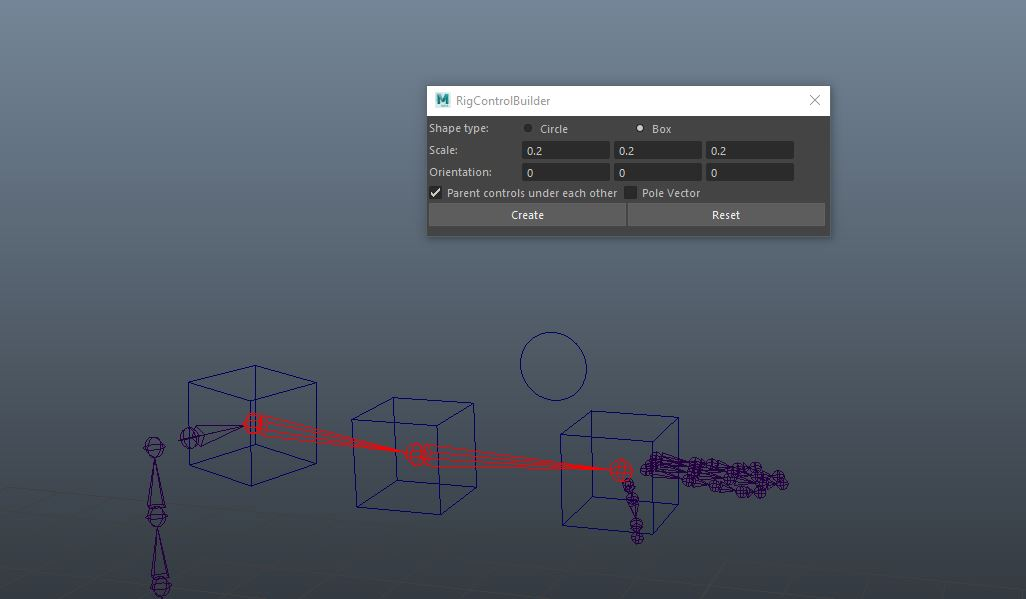
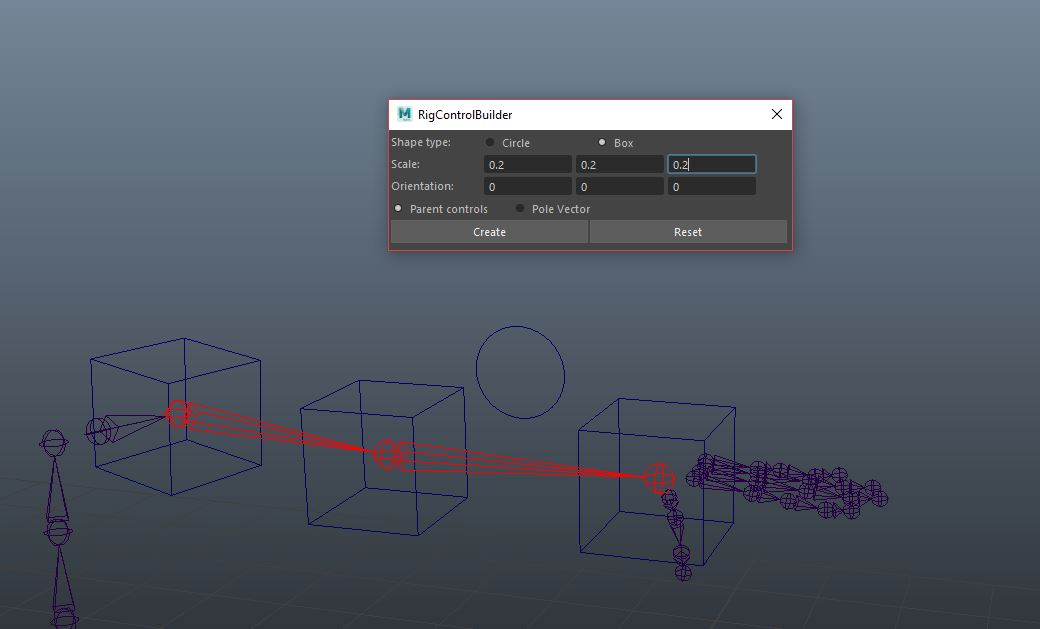
Changed checkboxes to radiobuttonGrp

diff --git a/rigControlBuilder/rigControlBuilder.py b/rigControlBuilder/rigControlBuilder.py
@@ -61,6 +61,10 @@ class controlBuilder(object):
         cmds.textField("yOrient", edit=True, text=0)
         cmds.textField("zOrient", edit=True, text=0)
 
+        cmds.textField("xScale", edit=True, text=1)
+        cmds.textField("yScale", edit=True, text=1)
+        cmds.textField("zScale", edit=True, text=1)
+
     # Close the window.
     def close(self, *args):
         cmds.deleteUI(self.windowName)
@@ -102,11 +106,18 @@ class controlBuilder(object):
         cmds.setParent('..')
 
         # Select whether you want to parent the chain of controls and their groups.
-        cmds.rowLayout(numberOfColumns=3)
-        cmds.checkBox('parentControls_checkBox', label="Parent controls under each other")
+        # cmds.rowLayout(numberOfColumns=3)
+        # cmds.checkBox('parentControls_checkBox', label="Parent controls under each other")
+        #
+        # # Select whether the control we are building is intended as a Pole Vector control.
+        # cmds.checkBox('poleVector_checkBox', label="Pole Vector")
+        #
+        # cmds.setParent('..')
 
-        # Select whether the control we are building is intended as a Pole Vector control.
-        cmds.checkBox('poleVector_checkBox', label="Pole Vector")
+        # Change separate checkboxes into a radiobuttonGrp.
+        cmds.rowLayout(numberOfColumns=3)
+        cmds.radioButtonGrp('parentAndPole_checkboxGrp', numberOfRadioButtons=2, cw=[1, 120],
+                         labelArray2=['Parent controls', 'Pole Vector'])
 
         cmds.setParent('..')
 
@@ -137,7 +148,8 @@ class controlBuilder(object):
         # List of items that will be used to group under each other.
         controlAndGroup = []
 
-        print("LIST OF JOINTS SELECTED : " + str(self.joints))
+        print("RadioButton selected: ")
+        print(cmds.radioButtonGrp('parentAndPole_checkboxGrp', q=True, sl=True))
 
         # TODO : Need to figure out a way to only allow for unique names to be created.
 
@@ -150,7 +162,7 @@ class controlBuilder(object):
                 name = joint + "_ctrl"
 
                 # Checks if this control should be a pole vector naming convention.
-                if cmds.checkBox('poleVector_checkBox', q=True, value=True):
+                if cmds.radioButtonGrp('parentAndPole_checkboxGrp', q=True, sl=True) == 2:
                     name = joint.split('_')[0] + "_poleVector_ctrl"
 
                 # Check if name already exists.
@@ -168,7 +180,7 @@ class controlBuilder(object):
                 name = joint + "_ctrl"
 
                 # Checks if this control should be a pole vector naming convention.
-                if cmds.checkBox('poleVector_checkBox', q=True, value=True):
+                if cmds.radioButtonGrp('parentAndPole_checkboxGrp', q=True, sl=True) == 2:
                     name = joint.split('_')[0] + "_poleVector_ctrl"
 
                 # Check if name already exists.
@@ -229,7 +241,7 @@ class controlBuilder(object):
 
         # Parent controls and groups under each other.
         # Iterate through the list and group the items up the chain IF the checkbox is on.
-        if cmds.checkBox('parentControls_checkBox', q=True, value=True):
+        if cmds.radioButtonGrp('parentAndPole_checkboxGrp', q=True, sl=True) == 1:
             for index in range(len(controlAndGroup)):
                 if self.isGroup(controlAndGroup[index]) and index != len(controlAndGroup)-1:
                     print("Group " + controlAndGroup[index] + " to " + controlAndGroup[index+1])
